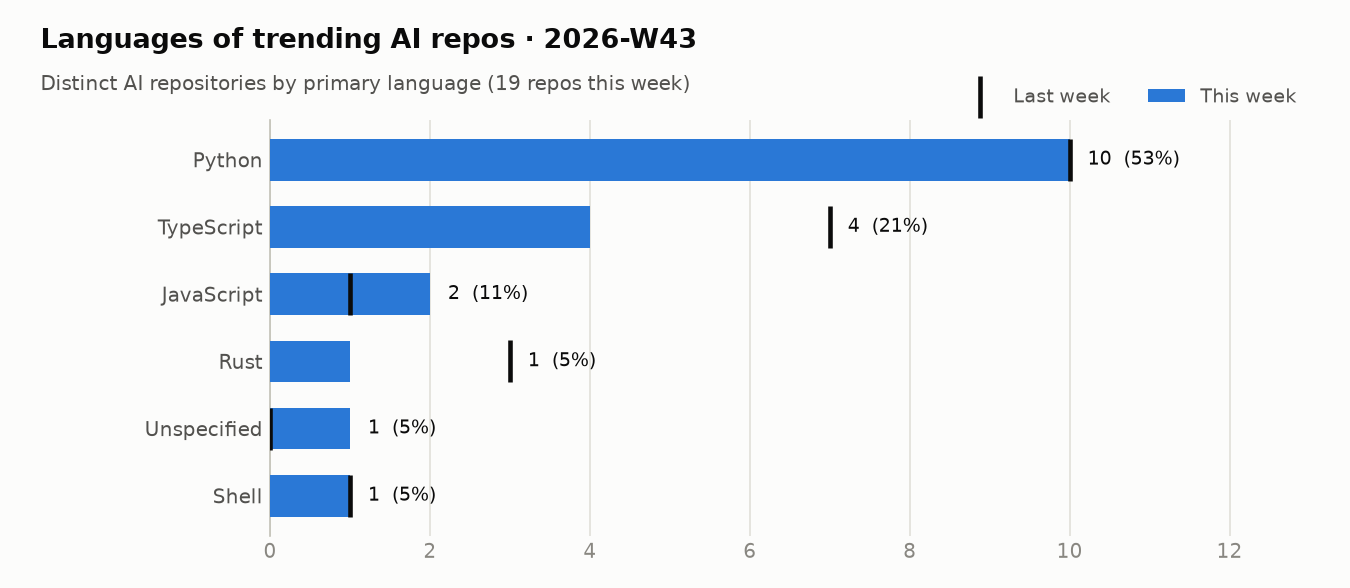
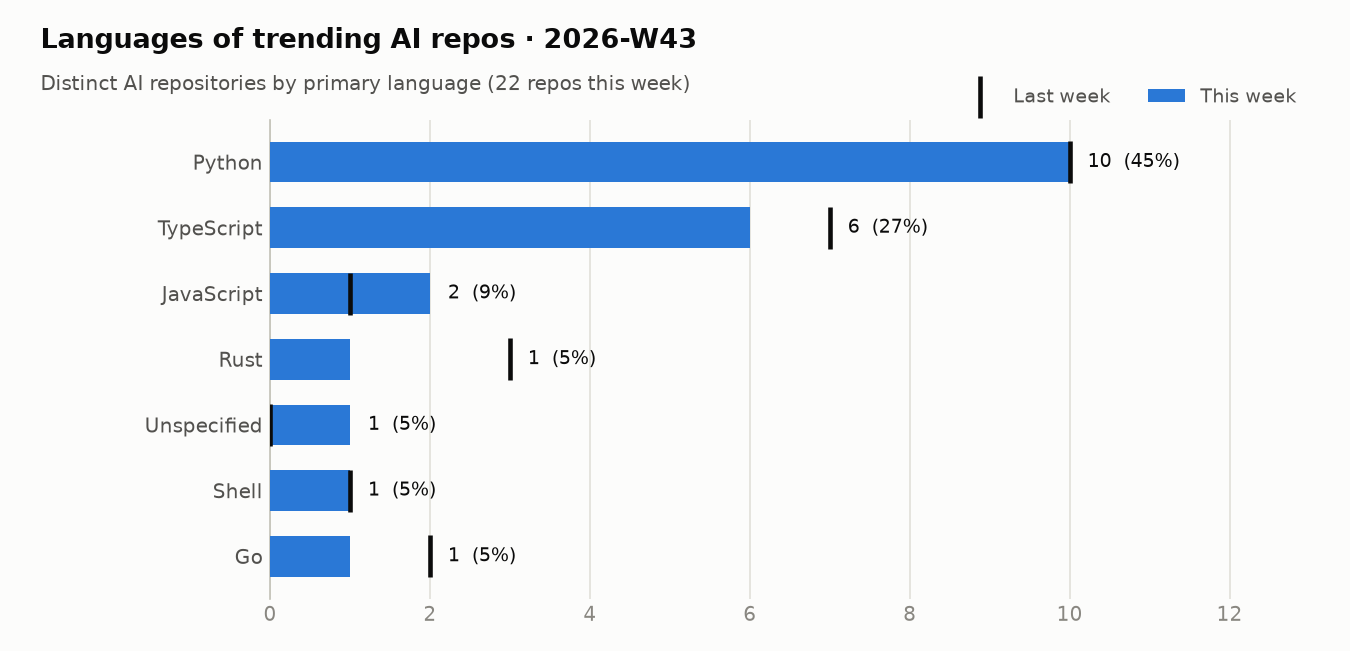
trending: snapshot 2026-10-22

diff --git a/README.md b/README.md
@@ -7,35 +7,33 @@ Every morning a GitHub Actions workflow reads the GitHub trending page, looks up
 ## Live view
 
 <!-- TRACKER_START -->
-### 🔥 AI repos trending today · 2026-10-21
+### 🔥 AI repos trending today · 2026-10-22
 
-13 of 14 trending repositories are AI-related.
+11 of 12 trending repositories are AI-related.
 
 | # | Repo | Language | ⭐ today | ⭐ total | Topics |
 |--:|---|---|--:|--:|---|
-| 1 | [MadsLorentzen/ai-job-search](https://github.com/MadsLorentzen/ai-job-search)<br><sub>Sponsor Star MadsLorentzen / ai-job-search The job search that runs on your machine. AI jo…</sub> | Python | 3,861 | 61,499 | `ai` `ai-agents` `career` `claude-code` |
-| 2 | [cloudflare/security-audit-skill](https://github.com/cloudflare/security-audit-skill)<br><sub>Star cloudflare / security-audit-skill A coding-agent skill for multi-phase security audit…</sub> | JavaScript | 1,712 | 34,773 | – |
-| 3 | [stablyai/orca](https://github.com/stablyai/orca)<br><sub>Star stablyai / orca Orca is the place for working with a fleet of agents (e.g. Grok Bot, …</sub> | TypeScript | 1,565 | 100,196 | `ade` `agent-ide` `ai-agents` `automation` |
-| 4 | [DietrichGebert/ponytail](https://github.com/DietrichGebert/ponytail)<br><sub>Sponsor Star DietrichGebert / ponytail Makes your AI agent think like the laziest senior d…</sub> | JavaScript | 1,208 | 170,312 | `agent-skills` `ai-agents` `claude` `claude-code` |
-| 5 | [Comfy-Org/ComfyUI](https://github.com/Comfy-Org/ComfyUI)<br><sub>Star Comfy-Org / ComfyUI The most powerful and modular diffusion model GUI, api and backen…</sub> | Python | 1,206 | 141,041 | `ai` `comfy` `comfyui` `python` |
-| 6 | [ruvnet/ruflo](https://github.com/ruvnet/ruflo)<br><sub>Star ruvnet / ruflo 🌊 The original agent harness. Deploy intelligent multi-player swarms, …</sub> | TypeScript | 684 | 77,993 | `agentic-ai` `agentic-framework` `agentic-workflow` `agents` |
-| 7 | [Graphify-Labs/graphify](https://github.com/Graphify-Labs/graphify)<br><sub>Star Graphify-Labs / graphify Turn any codebase, with its docs, SQL schemas, configs, and …</sub> | Python | 802 | 130,653 | `ai-agents` `antigravity` `ast` `claude-code` |
-| 8 | [anomalyco/opencode](https://github.com/anomalyco/opencode)<br><sub>Sponsor Star anomalyco / opencode The open source coding agent.</sub> | TypeScript | 1,240 | 219,234 | – |
-| 9 | [msitarzewski/agency-agents](https://github.com/msitarzewski/agency-agents)<br><sub>Sponsor Star msitarzewski / agency-agents A complete AI agency at your fingertips - From f…</sub> | Shell | 562 | 162,595 | – |
-| 10 | [headroomlabs-ai/headroom](https://github.com/headroomlabs-ai/headroom)<br><sub>Star headroomlabs-ai / headroom Compress tool outputs, logs, files, and RAG chunks before …</sub> | Python | 549 | 76,896 | `agent` `ai` `anthropic` `claude-code` |
-| 11 | [anthropics/knowledge-work-plugins](https://github.com/anthropics/knowledge-work-plugins)<br><sub>Star anthropics / knowledge-work-plugins Open source repository of plugins primarily inten…</sub> | Python | 267 | 30,914 | – |
-| 12 | [wshobson/agents](https://github.com/wshobson/agents)<br><sub>Sponsor Star wshobson / agents Multi-harness agentic plugin marketplace for Claude Code, C…</sub> | Python | 93 | 41,358 | `agent-skills` `agentic-ai` `ai-agents` `anthropic` |
-| 14 | [vllm-project/vllm](https://github.com/vllm-project/vllm)<br><sub>Sponsor Star vllm-project / vllm A high-throughput and memory-efficient inference and serv…</sub> | Python | 128 | 94,575 | `amd` `blackwell` `cuda` `deepseek` |
+| 1 | [cloudflare/security-audit-skill](https://github.com/cloudflare/security-audit-skill)<br><sub>Star cloudflare / security-audit-skill A coding-agent skill for multi-phase security audit…</sub> | JavaScript | 2,012 | 37,469 | – |
+| 2 | [vllm-project/vllm](https://github.com/vllm-project/vllm)<br><sub>Sponsor Star vllm-project / vllm A high-throughput and memory-efficient inference and serv…</sub> | Python | 441 | 95,022 | `amd` `blackwell` `cuda` `deepseek` |
+| 3 | [stablyai/orca](https://github.com/stablyai/orca)<br><sub>Star stablyai / orca Orca is the place for working with a fleet of agents (e.g. Grok Bot, …</sub> | TypeScript | 1,541 | 101,811 | `ade` `agent-ide` `ai-agents` `automation` |
+| 4 | [headroomlabs-ai/headroom](https://github.com/headroomlabs-ai/headroom)<br><sub>Star headroomlabs-ai / headroom Compress tool outputs, logs, files, and RAG chunks before …</sub> | Python | 474 | 77,411 | `agent` `ai` `anthropic` `claude-code` |
+| 5 | [DietrichGebert/ponytail](https://github.com/DietrichGebert/ponytail)<br><sub>Sponsor Star DietrichGebert / ponytail Makes your AI agent think like the laziest senior d…</sub> | JavaScript | 2,079 | 172,190 | `agent-skills` `ai-agents` `claude` `claude-code` |
+| 6 | [Comfy-Org/ComfyUI](https://github.com/Comfy-Org/ComfyUI)<br><sub>Star Comfy-Org / ComfyUI The most powerful and modular diffusion model GUI, api and backen…</sub> | Python | 939 | 141,738 | `ai` `comfy` `comfyui` `python` |
+| 7 | [supabase/supabase](https://github.com/supabase/supabase)<br><sub>Sponsor Star supabase / supabase The Postgres development platform. Supabase gives you a d…</sub> | TypeScript | 504 | 113,174 | `ai` `alternative` `auth` `database` |
+| 8 | [twentyhq/twenty](https://github.com/twentyhq/twenty)<br><sub>Star twentyhq / twenty The open alternative to Salesforce, designed for AI.</sub> | TypeScript | 112 | 59,398 | `crm` `crm-system` `customer` `good-first-issue` |
+| 10 | [strelov1/freehire](https://github.com/strelov1/freehire)<br><sub>Sponsor Star strelov1 / freehire freehire — the open-source search engine for job seekers</sub> | Go | 360 | 2,563 | `ats` `career` `careers` `golang` |
+| 11 | [akitaonrails/ai-memory](https://github.com/akitaonrails/ai-memory)<br><sub>Star akitaonrails / ai-memory Solution for long term memory for agent coding CLIs and to f…</sub> | Rust | 286 | 12,537 | – |
+| 12 | [Graphify-Labs/graphify](https://github.com/Graphify-Labs/graphify)<br><sub>Star Graphify-Labs / graphify Turn any codebase, with its docs, SQL schemas, configs, and …</sub> | Python | 1,433 | 132,017 | `ai-agents` `antigravity` `ast` `claude-code` |
 
 ### 📊 This week so far · 2026-W43
 
 #### Summary
 
-- **19** distinct AI repos trended over 3 day(s) (last week: 27)
-- AI share of all trending slots: **82%** (+4 pts vs last week)
-- Dominant language: **Python** (53% of AI repos)
-- Rising topics: `cursor` (+3), `claude-code-plugin` (+2), `cursor-rules` (+2), `pytorch` (+2), `agentic-ai` (+1)
-- New this week: `cursor`, `pytorch`, `cursor-rules`, `claude-code-plugin`
+- **22** distinct AI repos trended over 4 day(s) (last week: 27)
+- AI share of all trending slots: **84%** (+6 pts vs last week)
+- Dominant language: **Python** (45% of AI repos)
+- Rising topics: `cursor` (+3), `postgresql` (+3), `claude-code-plugin` (+2), `cursor-rules` (+2), `langchain` (+2)
+- New this week: `cursor`, `postgresql`, `pytorch`, `langchain`, `claude-code-plugin`, `cursor-rules`
 
 #### Languages
 
@@ -43,12 +41,13 @@ Every morning a GitHub Actions workflow reads the GitHub trending page, looks up
 
 | Language | Repos | Share | Last week |
 |---|--:|--:|--:|
-| Python | 10 | 53% | 10 |
-| TypeScript | 4 | 21% | 7 |
-| JavaScript | 2 | 11% | 1 |
+| Python | 10 | 45% | 10 |
+| TypeScript | 6 | 27% | 7 |
+| JavaScript | 2 | 9% | 1 |
 | Rust | 1 | 5% | 3 |
 | Unspecified | 1 | 5% | 0 |
 | Shell | 1 | 5% | 1 |
+| Go | 1 | 5% | 2 |
 
 #### Topics
 
@@ -63,30 +62,30 @@ Every morning a GitHub Actions workflow reads the GitHub trending page, looks up
 | `skills` | 3 |
 | `claude` | 3 |
 | `cursor` | 3 |
+| `postgresql` | 3 |
+| `job-search` | 2 |
+| `career` | 2 |
 | `multi-agent` | 2 |
 | `agentic-ai` | 2 |
-| `opencode` | 2 |
-| `openclaw` | 2 |
-| `cuda` | 2 |
 
 #### Most persistent AI repos
 
 | Repo | Language | Days trending | Stars gained | Total stars |
 |---|---|--:|--:|--:|
+| [stablyai/orca](https://github.com/stablyai/orca) | TypeScript | 4 | 5,842 | 101,811 |
+| [Comfy-Org/ComfyUI](https://github.com/Comfy-Org/ComfyUI) | Python | 4 | 3,310 | 141,738 |
 | [MadsLorentzen/ai-job-search](https://github.com/MadsLorentzen/ai-job-search) | Python | 3 | 9,949 | 61,499 |
-| [stablyai/orca](https://github.com/stablyai/orca) | TypeScript | 3 | 4,301 | 100,196 |
 | [anomalyco/opencode](https://github.com/anomalyco/opencode) | TypeScript | 3 | 3,965 | 219,234 |
-| [Comfy-Org/ComfyUI](https://github.com/Comfy-Org/ComfyUI) | Python | 3 | 2,371 | 141,041 |
 | [ruvnet/ruflo](https://github.com/ruvnet/ruflo) | TypeScript | 3 | 1,761 | 77,993 |
-| [HKUDS/CLI-Anything](https://github.com/HKUDS/CLI-Anything) | Python | 2 | 1,195 | 55,434 |
-| [akitaonrails/ai-memory](https://github.com/akitaonrails/ai-memory) | Rust | 2 | 1,178 | 11,580 |
-| [headroomlabs-ai/headroom](https://github.com/headroomlabs-ai/headroom) | Python | 2 | 859 | 76,896 |
-| [debpalash/VoiceStudio](https://github.com/debpalash/VoiceStudio) | Python | 1 | 2,082 | 76,204 |
-| [cloudflare/security-audit-skill](https://github.com/cloudflare/security-audit-skill) | JavaScript | 1 | 1,712 | 34,773 |
+| [akitaonrails/ai-memory](https://github.com/akitaonrails/ai-memory) | Rust | 3 | 1,464 | 12,537 |
+| [headroomlabs-ai/headroom](https://github.com/headroomlabs-ai/headroom) | Python | 3 | 1,333 | 77,411 |
+| [cloudflare/security-audit-skill](https://github.com/cloudflare/security-audit-skill) | JavaScript | 2 | 3,724 | 37,469 |
+| [DietrichGebert/ponytail](https://github.com/DietrichGebert/ponytail) | JavaScript | 2 | 3,287 | 172,190 |
+| [Graphify-Labs/graphify](https://github.com/Graphify-Labs/graphify) | Python | 2 | 2,235 | 132,017 |
 
 ➡ Last full weekly analysis: [2026-W42](reports/weekly/2026-W42.md) · [all reports](reports/weekly)
 
-_Tracking since 2026-10-01 · 21 day(s) of data · [raw data](data/trending.csv)_
+_Tracking since 2026-10-01 · 22 day(s) of data · [raw data](data/trending.csv)_
 <!-- TRACKER_END -->
 
 ## How it works
